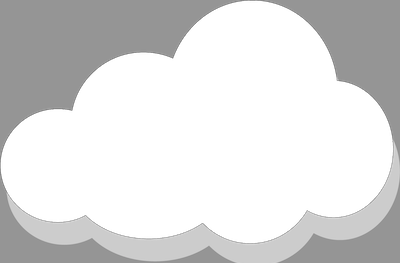
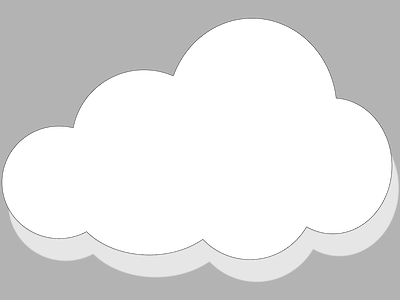
Front-end swag up
- fixed font issue
- svg awesomeness, fixed fallback png
- fixed minor issue with cloud-text when uploaded filename is super long

diff --git a/script.js b/script.js
@@ -30,7 +30,7 @@ $(document).ready(function(){
 
 	// cloud reactions
 	$('#fileSelect').click(function(e) {
-	  $('#fileElem').click(); 
+	  $('#fileElem').click();
 	  $('#dialog').slideUp(250);
 	  $('.alert').hide(0);
   });
@@ -41,7 +41,7 @@ $(document).ready(function(){
 
 	// submit settings
   var options_upload = {
-  	beforeSubmit: function(arr, $form, options) { 
+  	beforeSubmit: function(arr, $form, options) {
 		  $('#cloud-text-container').hide();
 		  $('#dialog').slideDown(1500);
   	},
@@ -49,7 +49,7 @@ $(document).ready(function(){
 	  uploadProgress: function(event, position, total, percentComplete) {
 		  $("#cloud-bar").width(percentComplete + "%");
 	  },
-  
+
 	  success: function() {
 	  	$("#cloud-bar").width("100%");
 	  },
@@ -63,13 +63,18 @@ $(document).ready(function(){
 	  	} else {
 	  	  $('#server_file_name').val(rep.server_file_name);
 	  	  $('#cloud-text').text("You uploaded " + rep.file_name);
+				str = $('#cloud-text').text();
+				if(str.length > 40)
+				{
+					$('#cloud-text').text(str.substr(0,38) + "...");
+				}
 	  	  $('#cloud-text-container').fadeIn(500);
 	  	}
 	  }
   };
 
   // bind actions to send form
-	$("#formUpload").submit(function(event){ 
+	$("#formUpload").submit(function(event){
 		$(this).ajaxSubmit(options_upload);
 		event.preventDefault();
 	});
@@ -79,7 +84,7 @@ $(document).ready(function(){
   */
 
 	var options_dialog = {
-		beforeSubmit: function(arr, $form, options) { 
+		beforeSubmit: function(arr, $form, options) {
 			$("#error").hide(0);
 		  $("#error").html("Form could not be validated :<br/><ul></ul>");
 
@@ -89,18 +94,18 @@ $(document).ready(function(){
 			  $("#error ul").append('<li>User field is empty</li>');
 		  	error = true;
 		  }
-		
-	  	if($("#password").val() === "") {			
+
+	  	if($("#password").val() === "") {
 	  		$("#error ul").append('<li>Password field is empty</li>');
 	  		error = true;
 	  	}
 
-		  if(parseInt($("#from").val()) > parseInt($("#to").val())) {			
+		  if(parseInt($("#from").val()) > parseInt($("#to").val())) {
 		  	$("#error ul").append('<li>Wrong page numbers</li>');
 			  error = true;
 		  }
 
-		  if(error) {		
+		  if(error) {
 		  	$("#error").show(0);
 		  }
 

diff --git a/styles.css b/styles.css
@@ -4,19 +4,20 @@
 @font-face
 {
  font-family: OpenSans;
- src: url('../font/OpenSans-Light.ttf');
+ src: url('font/OpenSans-Light.ttf');
 }
 @font-face
 {
   font-family: OpenSans;
-  src: url('../font/OpenSans-Regular.ttf');
+  src: url('font/OpenSans-Regular.ttf');
   font-weight: bold;
 }
 
 /* GENERAL CSS */
 
 html {
-  background-color: #959595;
+  background-color: #B3B3B3;
+
 }
 
 body
@@ -28,7 +29,7 @@ body
 
 #wrapper
 {
-  background-color: #959595;
+  background-color: #B3B3B3;
   padding: 10px;
   margin: 0px auto;
 }
@@ -49,7 +50,7 @@ h1
 {
   margin: 5px auto;
   width: 400px;
-  height: 263px;
+  height: 300px;
   position: relative;
   text-align: center;
 }
@@ -63,11 +64,13 @@ h1
 
 #fileSelect
 {
-  background: url(img/cloud.png) no-repeat;
+  background-image: url(img/cloud.png);
+  background-image: url(img/cloud-clean.svg), none;
+  background-size: 100% 100%;
+  border: 0px;
   width: 400px;
-  height: 263px;
+  height: 300px;
   cursor: pointer;
-  border: none;
 }
 
 #cloud-foreground
@@ -106,7 +109,7 @@ h1
 #cloud-text
 {
   font-size: 32px;
-  margin: 124px auto;
+  margin: 150px auto;
 }
 
 /* DIALOG CSS */

diff --git a/index.html b/index.html
@@ -2,7 +2,7 @@
 <html xmlns="http://www.w3.org/1999/xhtml">
 <head>
   <meta http-equiv="Content-Type" content="text/html; charset=UTF-8" />
-  <meta name="viewport" content="width=440px, initial-scale=1, maximum-scale=1">
+  <meta name="viewport" content="width=device-width, initial-scale=1.0">
   <title>EPFLCloudPrint</title>
 </head>
 <link rel="stylesheet" type="text/css" href="styles.css" />
@@ -28,7 +28,7 @@
         </form>
       </div>
     </div>
-    
+
     <div id="dialog" class="panel panel-default">
 
       <form class="panel-body" id="dialog-form" action="print.php" method="post" >

diff --git a/bootstrap/css/bootstrap.css b/bootstrap/css/bootstrap.css
@@ -272,13 +272,13 @@ html {
 
   -webkit-tap-highlight-color: rgba(0, 0, 0, 0);
 }
-body {
+/*body {
   font-family: "Helvetica Neue", Helvetica, Arial, sans-serif;
   font-size: 14px;
   line-height: 1.42857143;
   color: #333;
   background-color: #fff;
-}
+}*/
 input,
 button,
 select,
